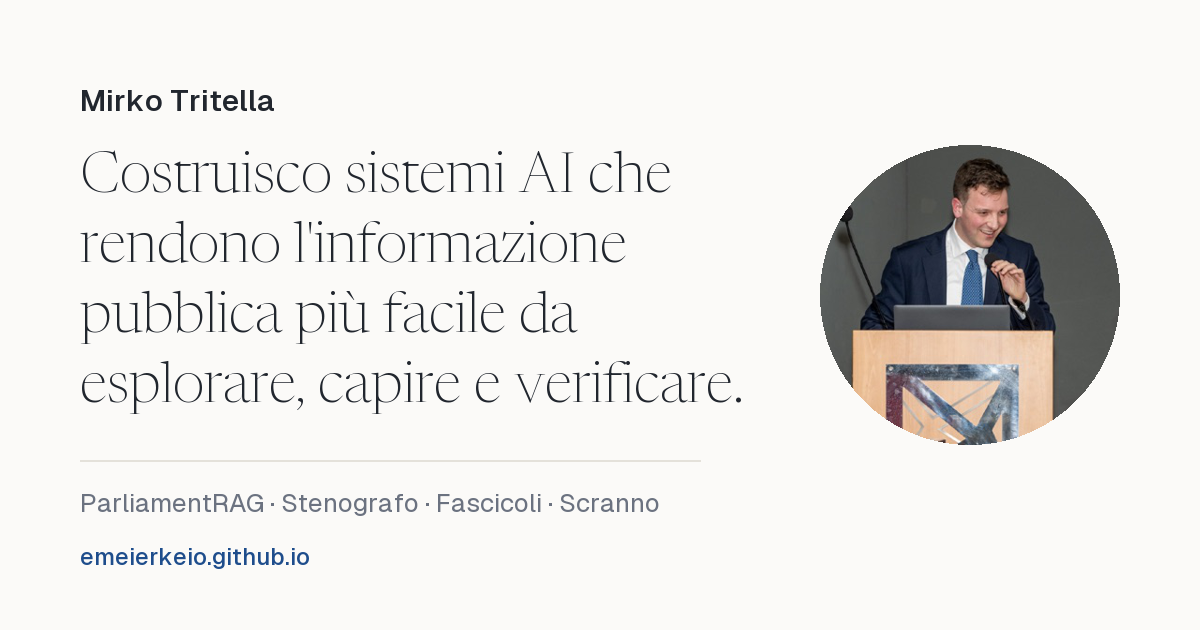
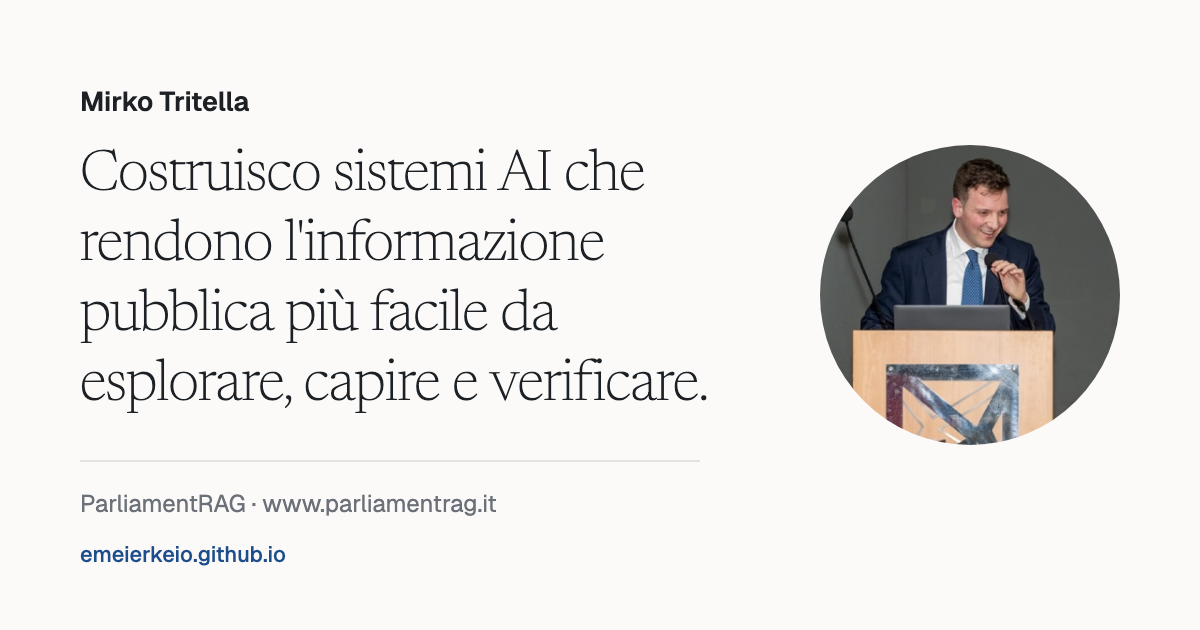
feat(site): come funziona e schema del sistema attuale, anteprima senza i tre sistemi

diff --git a/it/index.html b/it/index.html
@@ -127,15 +127,15 @@
         <h3 class="subhead">Come funziona</h3>
 
         <ul class="contribs">
-          <li><strong>Un unico grafo di tutto ciò che il Parlamento dice e fa.</strong> I resoconti stenografici (XML Akoma&nbsp;Ntoso) e gli endpoint SPARQL di <a href="https://dati.camera.it/">dati.camera.it</a> e <a href="https://dati.senato.it/">dati.senato.it</a> diventano un unico knowledge graph di interventi, oratori, votazioni e atti, con collegamenti tematici EuroVoc.</li>
-          <li><strong>Un retrieval che protegge la pluralità delle voci.</strong> Un canale vettoriale denso e un canale a grafo vengono fusi da un merger che bilancia rilevanza, copertura dei partiti, diversità degli oratori e salienza politica, così le posizioni di minoranza rischiano meno di sparire. Tecnicamente: multi-view hybrid retrieval.</li>
-          <li><strong>Oratori pesati per ruolo, non per volume.</strong> Un punteggio di autorevolezza specifico per la domanda, con sei componenti (professione, formazione, commissioni, atti legislativi, interventi, ruolo istituzionale), seleziona la voce più credibile per ciascun gruppo parlamentare.</li>
-          <li><strong>Ogni citazione verificata.</strong> Le citazioni generate vengono confrontate parola per parola con il passaggio d'origine; ciò che non si può verificare viene rimosso prima che la risposta sia mostrata.</li>
+          <li><strong>Un solo database di quello che il Parlamento dice e fa.</strong> Ogni notte la pipeline scarica le novità da <a href="https://dati.camera.it/">dati.camera.it</a>, <a href="https://dati.senato.it/">dati.senato.it</a>, dai dati Akoma&nbsp;Ntoso del Senato e dai thesauri EuroVoc e TESEO. PostgreSQL tiene un modello datato delle due Camere: gruppi, seggi e cariche hanno inizio e fine, così un intervento conta per il gruppo di chi parlava quel giorno.</li>
+          <li><strong>Ricerca per significato, che costa poco tenere aggiornata.</strong> I testi diventano brani di circa 1.500 caratteri, con vettori a 1.024 dimensioni calcolati con la Batch API di OpenAI. Un vettore appartiene all'impronta del suo testo: una seduta ricaricata non si paga due volte.</li>
+          <li><strong>Un agente che può solo leggere gli atti.</strong> Il modello della chat risponde attraverso strumenti tipizzati su interventi, voti, atti ed emendamenti, e può scrivere solo i link che gli strumenti gli hanno dato.</li>
+          <li><strong>Controlli sulla risposta finale.</strong> Controlli deterministici cercano ogni gruppo che ha parlato del tema, misurano l'autorevolezza di ogni parlamentare citato su sei componenti e trovano ogni citazione parola per parola nel resoconto ufficiale. Un controllo fallito compare accanto alla risposta.</li>
         </ul>
 
         <figure class="feature-figure">
-          <img src="/assets/parliamentrag-pipeline.svg" alt="La pipeline di ParliamentRAG in otto passaggi: analisi della domanda, associazione alle commissioni, selezione degli esperti, retrieval multi-view, metriche di bilanciamento, bussola ideologica, generazione, verifica delle citazioni" width="1240" height="348" loading="lazy">
-          <figcaption>La pipeline: dalla domanda a una risposta bilanciata con citazioni verificate.</figcaption>
+          <img src="/assets/parliamentrag-pipeline.png" alt="La pipeline di ParliamentRAG: fonti ufficiali, lago, trasformazione, controlli, PostgreSQL, brani, vettori, poi API, MCP e agente" width="1760" height="740" loading="lazy">
+          <figcaption>La pipeline notturna: dalle fonti ufficiali al database e agli strumenti dietro ogni risposta.</figcaption>
         </figure>
 
         <p class="stat-line">1.207 sedute d'Aula&ensp;·&ensp;469k interventi&ensp;·&ensp;50k atti&ensp;·&ensp;28,7k votazioni per appello nominale&ensp;·&ensp;9,7M voti individuali<br>Parlamento italiano, XIX Legislatura, aggiornato ogni notte dai dati aperti ufficiali</p>

diff --git a/index.html b/index.html
@@ -183,15 +183,15 @@
         <h3 class="subhead">How it works</h3>
 
         <ul class="contribs">
-          <li><strong>One graph of everything parliament says and does.</strong> Stenographic reports (Akoma&nbsp;Ntoso XML) and the SPARQL endpoints of <a href="https://dati.camera.it/">dati.camera.it</a> and <a href="https://dati.senato.it/">dati.senato.it</a> become a single knowledge graph of speeches, speakers, votes and acts, with EuroVoc subject links.</li>
-          <li><strong>Retrieval that protects the diversity of voices.</strong> A dense vector channel and a graph channel are fused by a merger that balances relevance with party coverage, speaker diversity and political salience, so minority positions are less likely to disappear. Technically: multi-view hybrid retrieval.</li>
-          <li><strong>Speakers weighted by role, not volume.</strong> A query-specific authority score with six components (profession, education, committee membership, legislative acts, interventions, institutional role) selects the most credible voice for each parliamentary group.</li>
-          <li><strong>Every quotation verified.</strong> Generated quotes are matched verbatim against their source passage; anything that cannot be verified is removed before the answer is shown.</li>
+          <li><strong>One database of everything Parliament says and does.</strong> Each night the pipeline downloads what changed from <a href="https://dati.camera.it/">dati.camera.it</a>, <a href="https://dati.senato.it/">dati.senato.it</a>, the Senate's Akoma&nbsp;Ntoso bulk data and the EuroVoc and TESEO thesauri. PostgreSQL keeps one dated model of both chambers: groups, seats and offices carry start and end dates, so a speech counts under the group its speaker belonged to that day.</li>
+          <li><strong>Search by meaning, cheap to keep current.</strong> Texts become passages of about 1,500 characters, embedded at 1,024 dimensions through the OpenAI Batch API. A vector belongs to the hash of its text, so a reloaded sitting pays nothing again.</li>
+          <li><strong>An agent that can only read the record.</strong> The chat model answers through typed tools over speeches, votes, acts and amendments, and may only output links its tools returned.</li>
+          <li><strong>Checks on the final answer.</strong> Deterministic checks look for every group with a voice on the topic, rank each quoted member on six authority components, and find every quotation word for word in the official record. A failed check appears next to the answer.</li>
         </ul>
 
         <figure class="feature-figure">
-          <img src="assets/parliamentrag-pipeline.svg" alt="ParliamentRAG query pipeline in eight steps: query analysis, committee matching, expert selection, multi-view retrieval, balance metrics, ideological compass, generation, citation verification" width="1240" height="348" loading="lazy">
-          <figcaption>The query pipeline: from question to a balanced answer with verified citations.</figcaption>
+          <img src="assets/parliamentrag-pipeline.png" alt="The ParliamentRAG pipeline: official sources, lake, transform, checks, PostgreSQL, passages, vectors, then API, MCP and agent" width="1760" height="740" loading="lazy">
+          <figcaption>The nightly pipeline: from the official sources to the database and the tools behind every answer.</figcaption>
         </figure>
 
         <p class="stat-line">1,207 plenary sittings&ensp;·&ensp;469k speeches&ensp;·&ensp;50k acts&ensp;·&ensp;28.7k roll-call votes&ensp;·&ensp;9.7M individual votes<br>Italian Parliament, XIX Legislature, updated every night from official open data</p>
